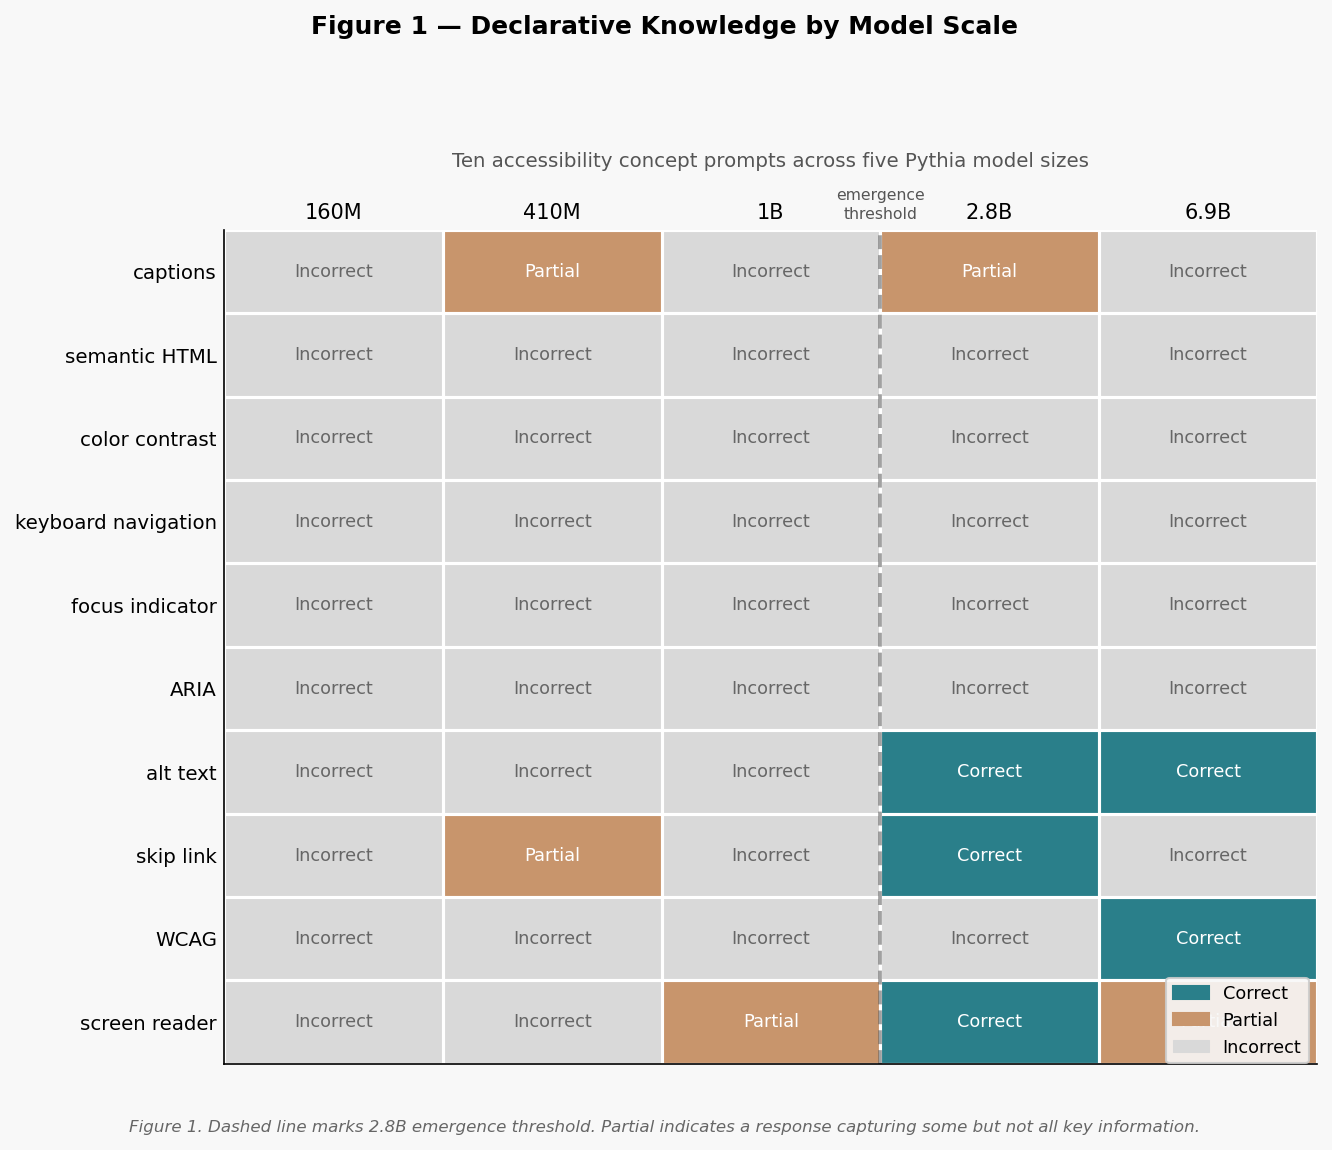
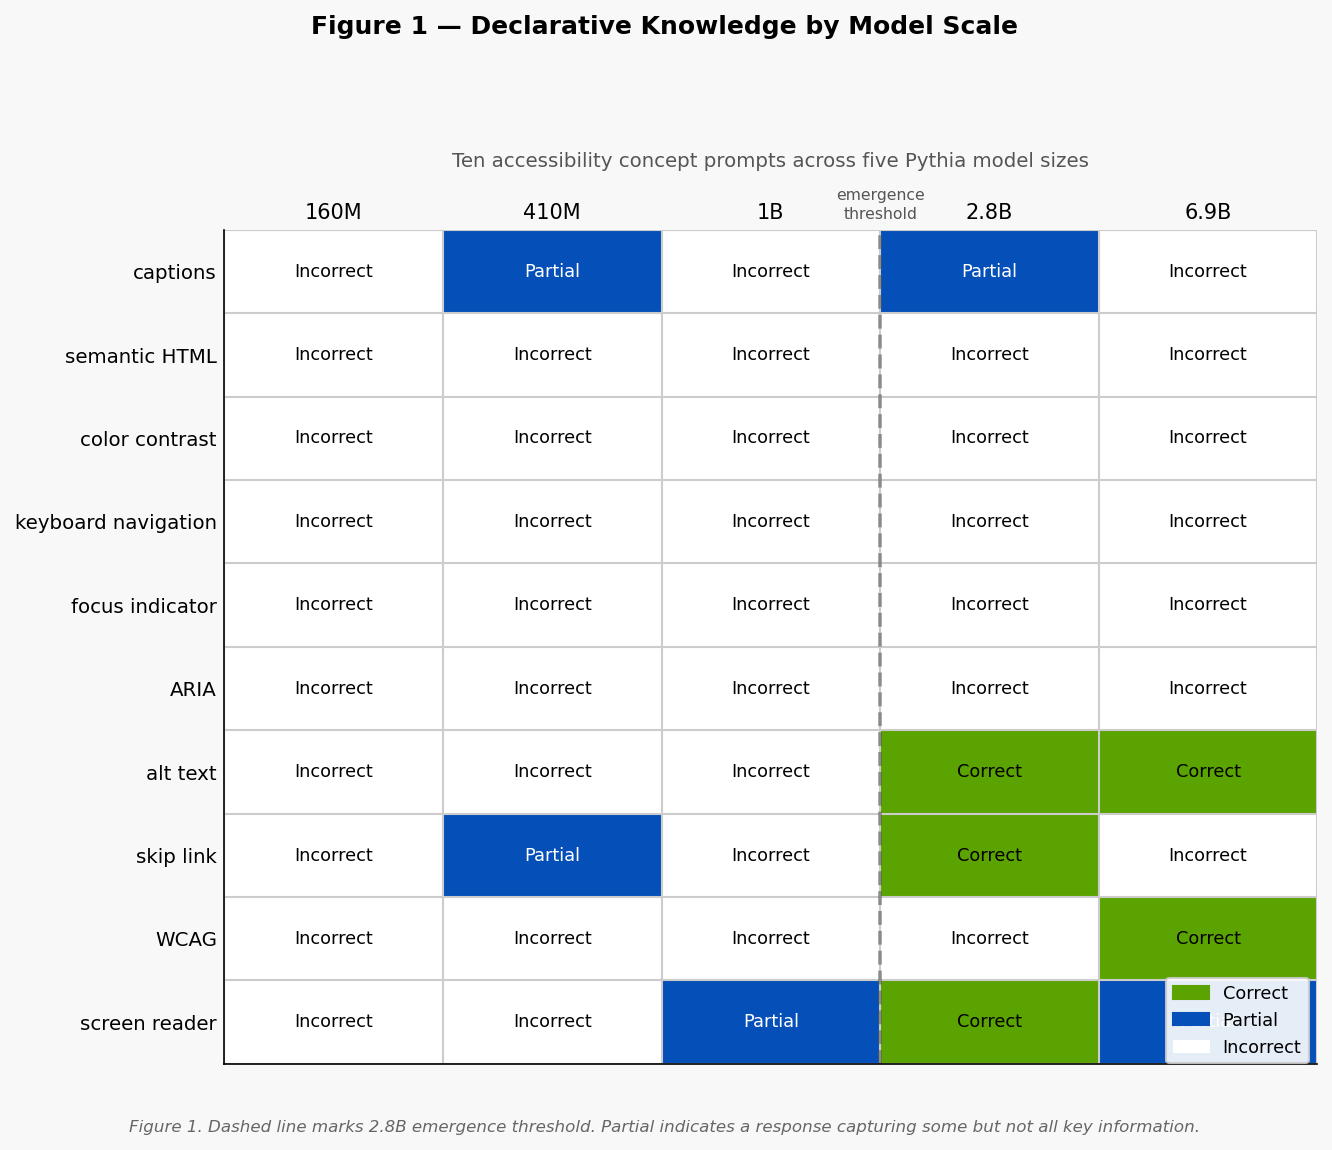
Update figures: Atkinson Hyperlegible, cool blue palette, accessible heatmap colors
- Font: Atkinson Hyperlegible (installed via brew)
- Chart colors: navy/blue from Blues colormap (#08306b, #2171b5, #6baed6)
- Heatmap: green #5ba300 (correct), blue #054fb9 (partial), white (incorrect)
- All text colors WCAG AA compliant
- Gray cell borders for visibility on white background

diff --git a/paper-1-emergence/generate-figures.py b/paper-1-emergence/generate-figures.py
@@ -27,18 +27,26 @@ FIGURES_DIR = Path("paper/figures")
 RESULTS_DIR = Path("results")
 FIGURES_DIR.mkdir(parents=True, exist_ok=True)
 
-# ── Palette (matches existing figures) ────────────────────────────────────────
-CORRECT_COLOR   = "#2a7f8a"   # teal
-PARTIAL_COLOR   = "#c8956c"   # amber
-INCORRECT_COLOR = "#d9d9d9"   # light gray
-HIGHLIGHT_COLOR = "#1a5c66"   # dark teal for L1H12 callout
+# ── Palette ────────────────────────────────────────────────────────────────────
+# Chart colors — cool blues from Blues colormap (L1H12-induction-test.png)
+NAVY       = "#08306b"   # dark navy — primary
+BLUE       = "#2171b5"   # medium blue — secondary
+LIGHT_BLUE = "#6baed6"   # light blue — tertiary
+
+# Heatmap outcome colors — semantically meaningful, WCAG AA contrast verified
+CORRECT_COLOR        = "#5ba300"   # bright green,  black text ~6.7:1
+PARTIAL_COLOR        = "#054fb9"   # dark blue,     white text ~7.4:1
+INCORRECT_COLOR      = "#ffffff"   # white,         black text
+INCORRECT_TEXT_COLOR = "#000000"   # black — text on incorrect cells
+
+HIGHLIGHT_COLOR = "#08306b"   # navy — L1H12 callout
 
 plt.rcParams.update({
-    "font.family": "sans-serif",
+    "font.family":      "Atkinson Hyperlegible",
     "axes.spines.top":   False,
     "axes.spines.right": False,
-    "figure.facecolor":  "#f8f8f8",
-    "axes.facecolor":    "#f8f8f8",
+    "figure.facecolor":  "white",
+    "axes.facecolor":    "white",
 })
 
 # ── Outcome encoding ───────────────────────────────────────────────────────────
@@ -48,7 +56,7 @@ INCORRECT = 0
 
 OUTCOME_LABELS      = {CORRECT: "Correct",   PARTIAL: "Partial",  INCORRECT: "Incorrect"}
 OUTCOME_COLORS      = {CORRECT: CORRECT_COLOR, PARTIAL: PARTIAL_COLOR, INCORRECT: INCORRECT_COLOR}
-OUTCOME_TEXT_COLORS = {CORRECT: "white",      PARTIAL: "white",    INCORRECT: "#666666"}
+OUTCOME_TEXT_COLORS = {CORRECT: "#000000",    PARTIAL: "white",    INCORRECT: "#000000"}
 
 MODELS = ["160M", "410M", "1B", "2.8B", "6.9B"]
 
@@ -106,9 +114,9 @@ def make_outcome_heatmap(data, title, subtitle, caption, fig_path):
 
     # Cell borders
     for r in range(n_rows + 1):
-        ax.axhline(r, color="white", linewidth=1.5)
+        ax.axhline(r, color="#cccccc", linewidth=1.0)
     for c in range(n_cols + 1):
-        ax.axvline(c, color="white", linewidth=1.5)
+        ax.axvline(c, color="#cccccc", linewidth=1.0)
 
     # Emergence threshold marker at 2.8B (column index 3)
     ax.axvline(3, color="#555555", linewidth=1.8, linestyle="--", alpha=0.55)
@@ -184,11 +192,11 @@ def make_l1h12_figure():
             if highlight_h12 and h == 12:
                 colors.append(HIGHLIGHT_COLOR)
             elif v >= 0.5:
-                colors.append(CORRECT_COLOR)
+                colors.append(NAVY)
             elif v >= 0.1:
-                colors.append("#7ab8bf")   # lighter teal: moderate binding
+                colors.append(LIGHT_BLUE)   # moderate binding
             else:
-                colors.append("#d0d0d0")   # below threshold
+                colors.append("#d0d0d0")    # below threshold
         return colors
 
     # Left panel — screen reader
@@ -279,9 +287,9 @@ def make_perplexity_figure():
     ax.text(1.5, 88, "flip\nzone", ha="center", va="top",
             fontsize=9, color="#888888", style="italic", linespacing=1.4)
 
-    ax.plot(x, correct, color=CORRECT_COLOR,  marker="o", linewidth=2,
+    ax.plot(x, correct, color=NAVY,       marker="o", linewidth=2,
             markersize=7, label="Correct definition", zorder=3)
-    ax.plot(x, wrong,   color=PARTIAL_COLOR,  marker="s", linewidth=2,
+    ax.plot(x, wrong,   color=LIGHT_BLUE, marker="s", linewidth=2,
             markersize=7, label="Wrong definition",   zorder=3)
 
     # Annotation arrow pointing to crossover
@@ -335,9 +343,6 @@ def make_compound_figure():
     totals  = [sr_total,  at_total,  sl_total ]
     strongs = [sr_strong, at_strong, sl_strong]
 
-    LIGHT_TEAL = "#7ab8bf"
-    DARK_TEAL  = CORRECT_COLOR
-
     x      = np.arange(len(compounds))
     width  = 0.38
 
@@ -345,8 +350,8 @@ def make_compound_figure():
     fig.patch.set_facecolor("white")
     ax.set_facecolor("white")
 
-    bars_all    = ax.bar(x - width / 2, totals,  width, color=LIGHT_TEAL, label="All heads >0.1",    zorder=2)
-    bars_strong = ax.bar(x + width / 2, strongs, width, color=DARK_TEAL,  label="Strong heads >=0.5", zorder=2)
+    bars_all    = ax.bar(x - width / 2, totals,  width, color=LIGHT_BLUE, label="All heads >0.1",     zorder=2)
+    bars_strong = ax.bar(x + width / 2, strongs, width, color=NAVY,       label="Strong heads >=0.5", zorder=2)
 
     for bar, val in zip(bars_all,    totals ):
         ax.text(bar.get_x() + bar.get_width() / 2, bar.get_height() + 3,
@@ -389,7 +394,7 @@ def make_control_figure():
         "cold water\n(control -- adjacent tokens)",
     ]
     values = [sr_count, 0]
-    colors = [CORRECT_COLOR, "#d0d0d0"]
+    colors = [NAVY, "#d0d0d0"]
 
     fig, ax = plt.subplots(figsize=(6.5, 5))
     fig.patch.set_facecolor("white")
